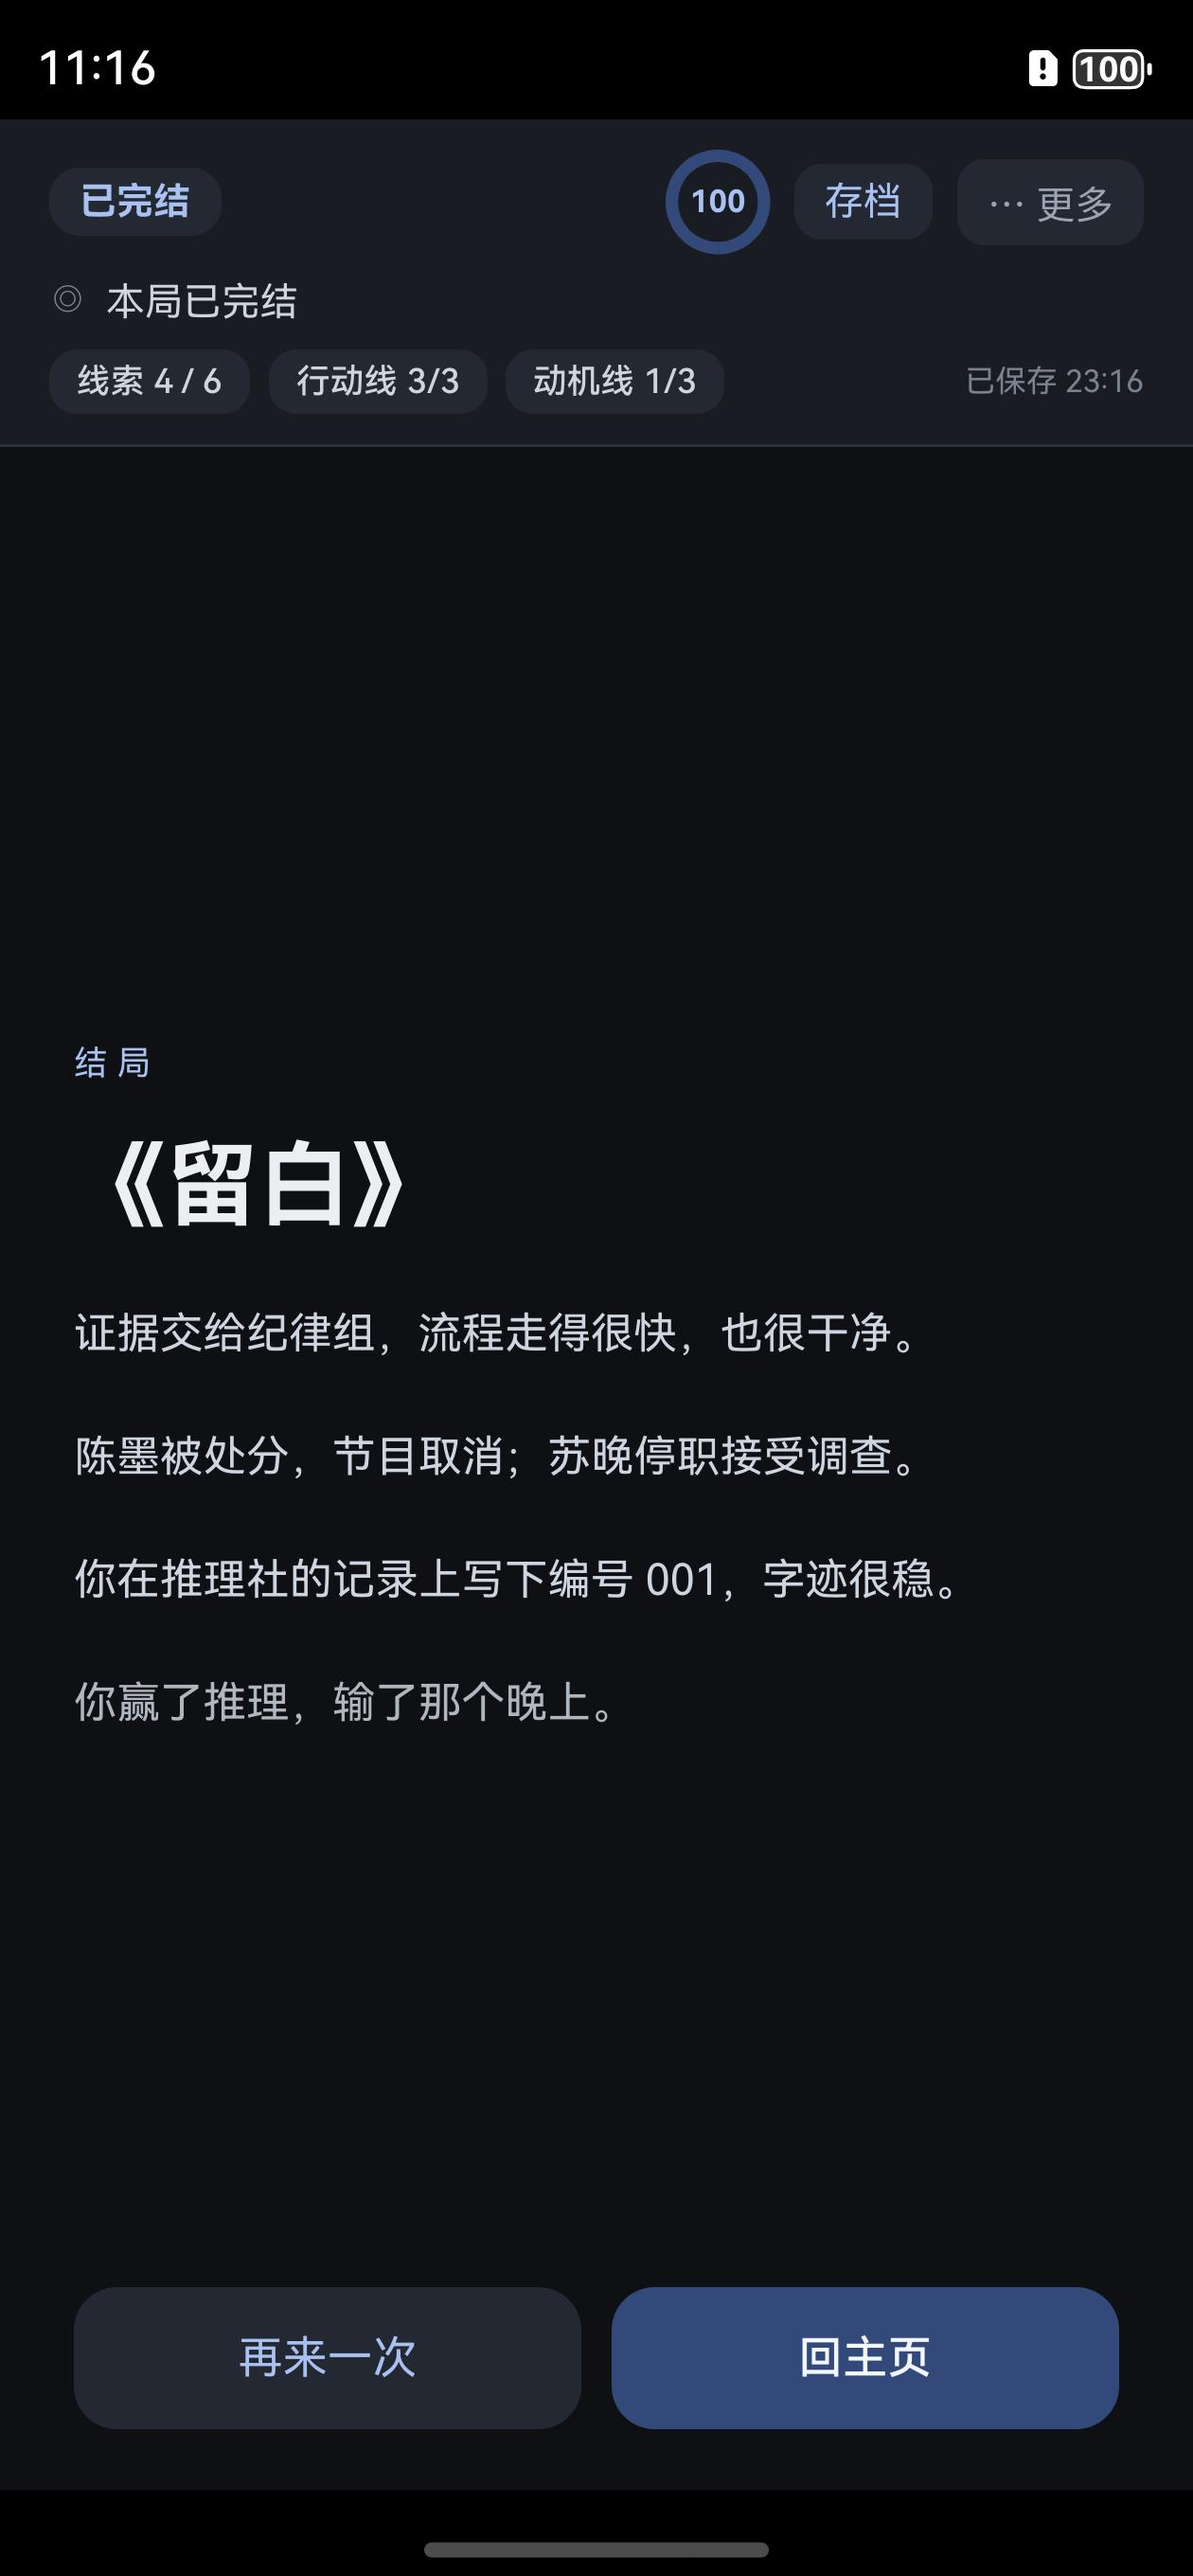
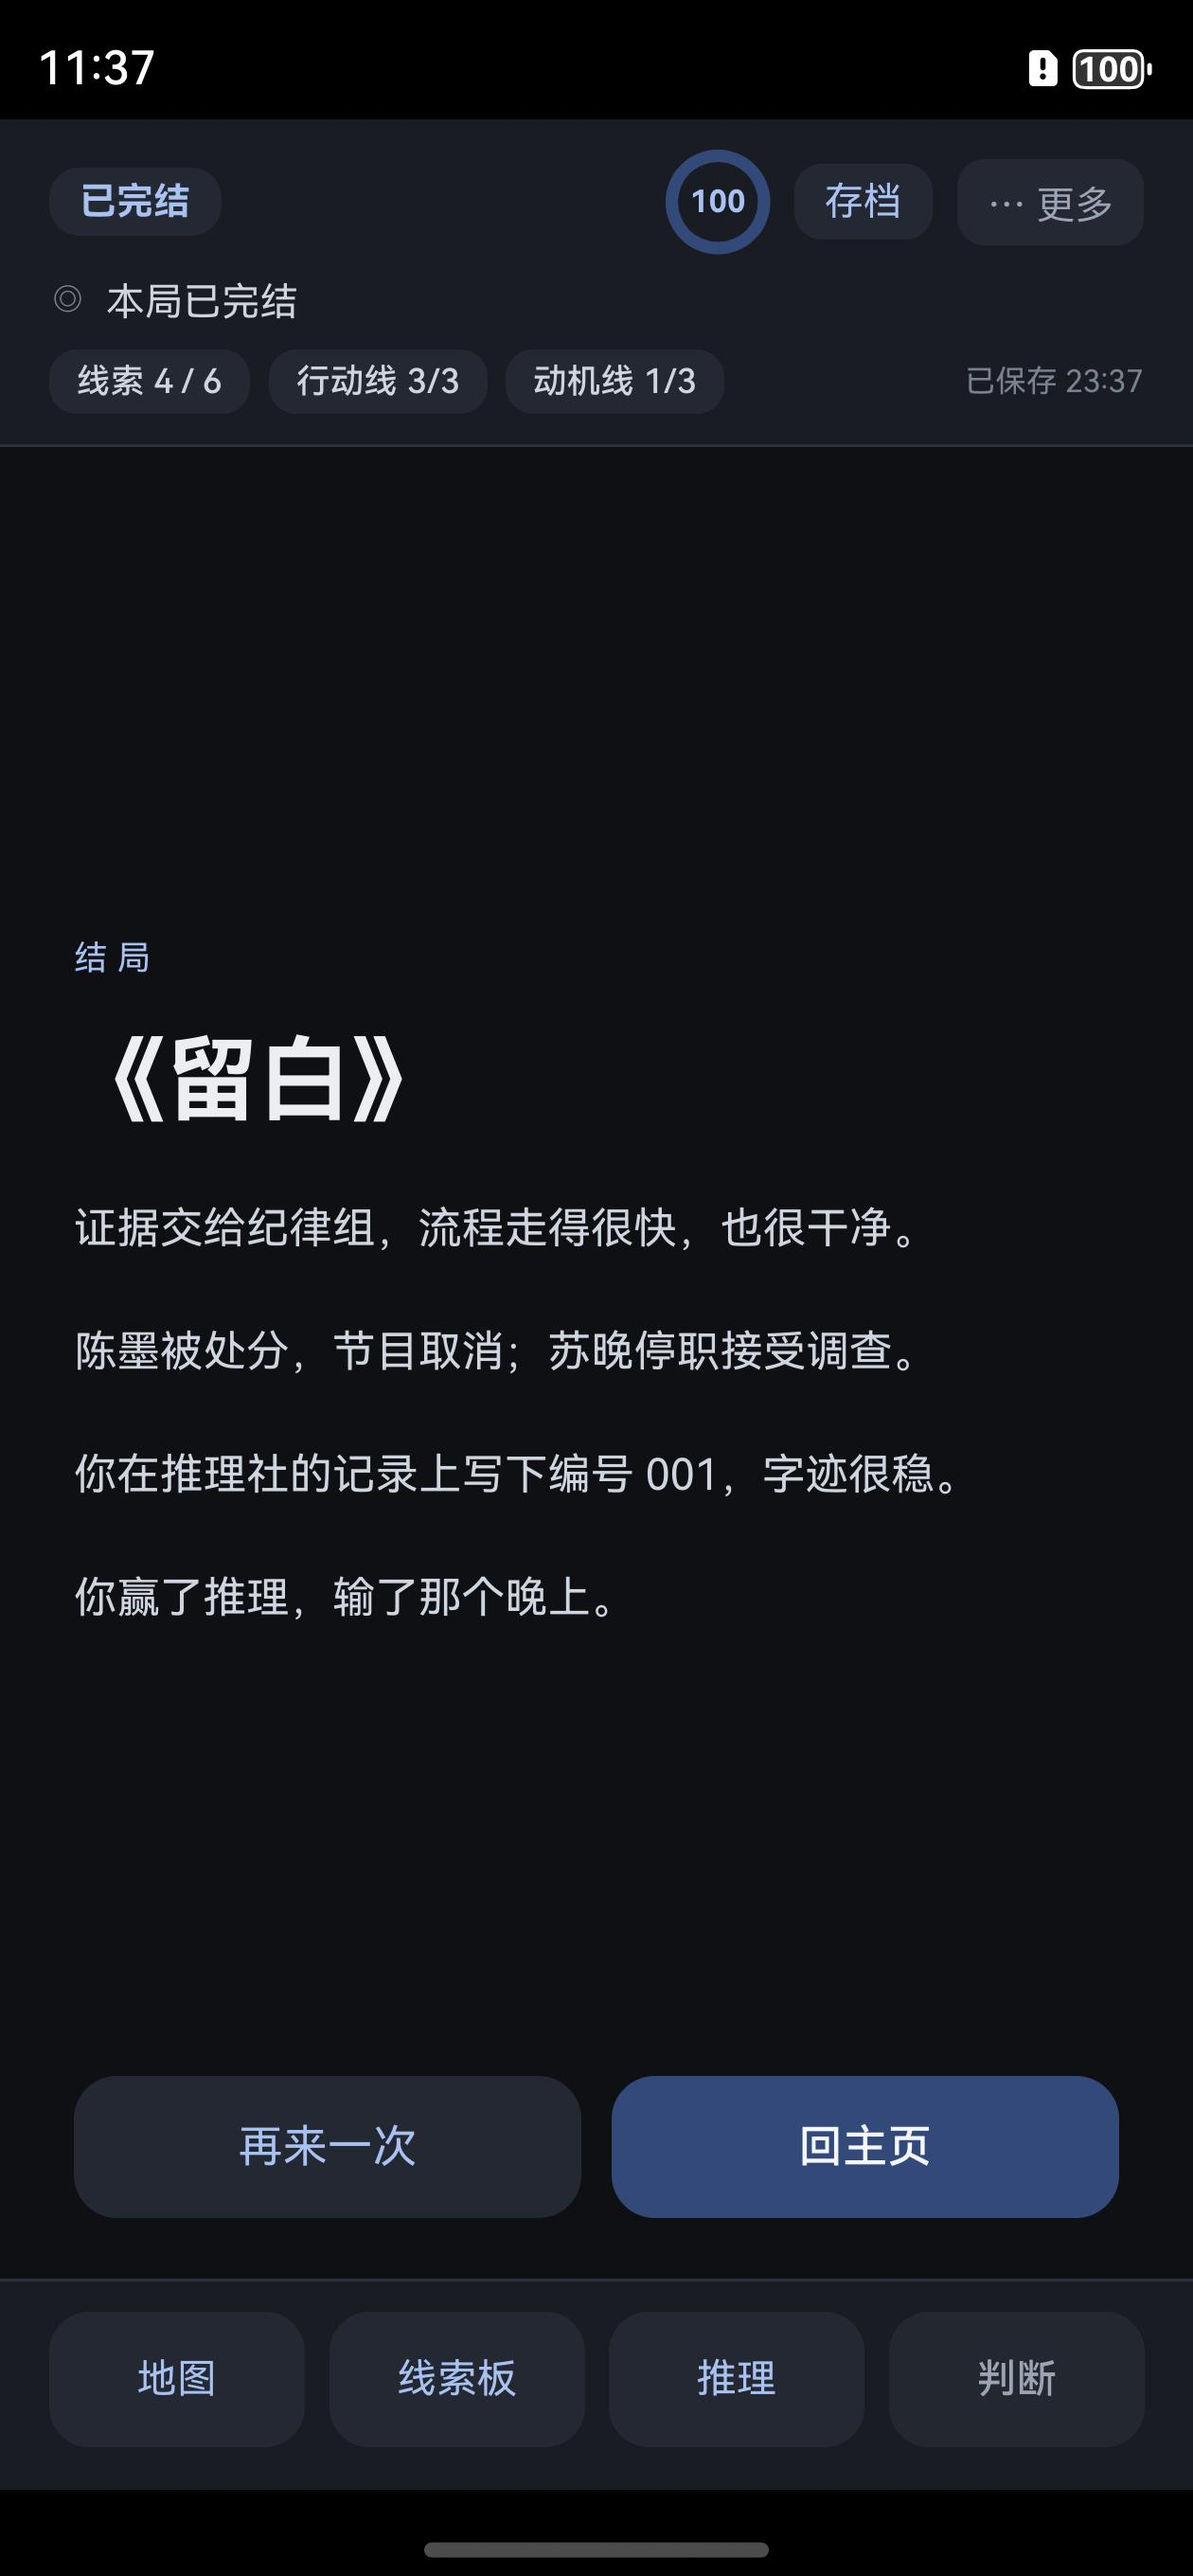
docs: 补反馈时效规则与截图（提示队列/分题提示）
01 §8.2 增 toast 四规则与分题提示约定；PROGRESS 3.11 记录本次修复。

diff --git a/docs/PROGRESS.md b/docs/PROGRESS.md
@@ -1,7 +1,7 @@
 # 进度与明日待办
 ## 《钟楼七点》鸿蒙版 · 2026-11-16 收工快照
 
-> 最近更新：2026-11-17 22:45（Asia/Shanghai）
+> 最近更新：2026-11-17 23:35（Asia/Shanghai）
 > 分支：`main`；里程碑 tag：`v0.9.0-playable`（后续改动已在其后追加）
 > 仓库位置：**`E:\campus-case`**（2026-11-17 从 `E:\校园推理galgame` 迁出，见 §3.6）
 
@@ -155,6 +155,16 @@ IDE 截图 `docs/screenshots/hypium-run-22.png`，154 ms）。
 | 页面改造 | 简报（委托卡+目标编号+时间线卡）、地图（序号徽标+可去计数）、场景（氛围色带+热点状态胶囊）、线索板（证据链图卡+计数胶囊+选中态按钮）、推理/判断/结局/收集册/存档全部统一 |
 | 设置新增外观 | 跟随系统 / 浅色 / 深色三档：`setColorMode` + `Prefs.KEY_THEME` 持久化，`themeKey` 触发 Canvas 重绘 |
 | 回归 | 编译 PASS；`e2e -Scenario all` 24/24（过程中修了两处自动化标签：保留「‹ 返回」文案、把计数胶囊并回单个文本节点「线索 5 / 6」） |
+
+### 3.11 反馈可用性修复（2026-11-17 23:35）
+
+| 反馈 | 改法 |
+| --- | --- |
+| 提示条互相覆盖 | 改成队列：`toasts: ToastItem[]`，同屏最多 3 条向上叠放，各自计时消失；点击可立即关闭 |
+| 提示消失太快 | 停留时间按字数自适应：`max(3.4s, min(10s, 2.2s + 字数×0.16s))`，原来固定 2.2s |
+| 推理工坊提示互相覆盖 | 每题的「提示 N/M」与提交反馈改成按题目 id 存数组，切题不再覆盖 |
+| 底部导航"消失" | 原来结局页故意隐藏导航栏，现改为常驻（结局页也能直接去线索板/收集册） |
+| 锁定场景序号模糊 | 锁定卡片的序号徽标从「·」改成「—」 |
 
 ## 4. 今天踩过的坑（明天不用重复踩）
 | 坑 | 结论 |

diff --git a/docs/01-基础功能需求规格说明.md b/docs/01-基础功能需求规格说明.md
@@ -795,6 +795,18 @@ interface PlayerState {
 
 ### 8.2 通用反馈原则
 
+**提示条（toast）规则**（本次按「读得完」重定）：
+
+| 规则 | 取值 | 说明 |
+| --- | --- | --- |
+| 停留时间 | `max(3.4s, min(10s, 2.2s + 字数×0.16s))` | 短提示约 3.4s，长句最长 10s；固定 2.2s 会导致长句读不完 |
+| 多条并存 | 同屏最多 3 条，向上叠放 | 连续动作（拿线索 + 阶段推进 + 条件不足）不再互相覆盖 |
+| 手动关闭 | 点击任意提示即消失 | 不想等时可以自己关 |
+| 不挡操作 | 提示浮在底部操作栏上方，不参与布局 | 出现/消失不顶动页面 |
+
+**分题提示**：推理工坊每道题的「提示 N/M」与提交反馈按题目各自保存，切换题目不回退、不互相覆盖。
+
+
 1. **有操作必有反馈**：任何可点元素在 100ms 内给出视觉回应（按压态至少变色/缩放）。
 2. **有状态必有编码**：状态不能只靠颜色（加图标或文字）。
 3. **有代价必有可见性**：被关闭/不可用的东西要显示出来并说明原因，不静默隐藏。
